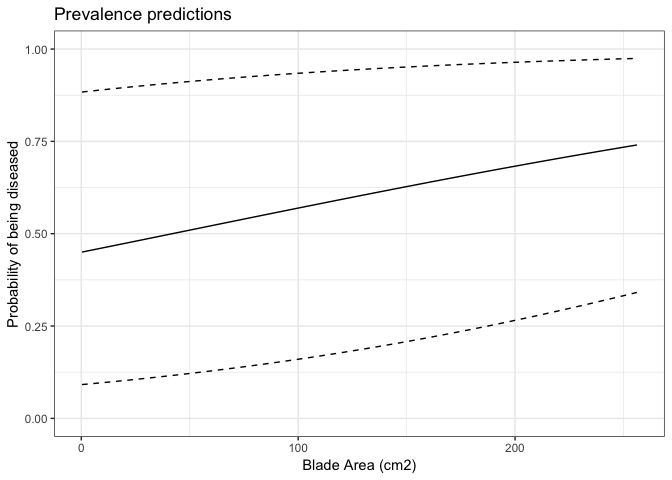
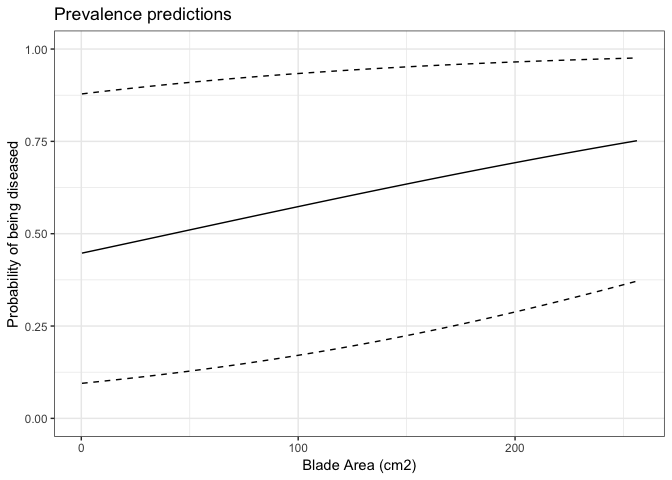
edited blade model to include region group and meadow group

diff --git a/disease_model_I.md b/disease_model_I.md
@@ -25,27 +25,41 @@ selection and validation process, for simplicity in sharing results
     ##  Family: binomial  ( logit )
     ## Formula:          
     ## Prevalence ~ sBladeArea + sDensityShoots + TidalHeight + (1 |  
-    ##     MeadowId)
+    ##     Region) + (1 | MeadowId)
     ## Data: bladeWD
     ## 
     ##      AIC      BIC   logLik deviance df.resid 
-    ##   4219.9   4251.0  -2105.0   4209.9     3697 
+    ##   4215.0   4252.3  -2101.5   4203.0     3696 
     ## 
     ## Random effects:
     ## 
     ## Conditional model:
     ##  Groups   Name        Variance Std.Dev.
-    ##  MeadowId (Intercept) 1.88     1.371   
-    ## Number of obs: 3702, groups:  MeadowId, 32
+    ##  Region   (Intercept) 0.7763   0.8811  
+    ##  MeadowId (Intercept) 1.0928   1.0453  
+    ## Number of obs: 3702, groups:  Region, 6; MeadowId, 32
     ## 
     ## Conditional model:
-    ##                 Estimate Std. Error z value Pr(>|z|)    
-    ## (Intercept)    -0.004324   0.249862  -0.017 0.986192    
-    ## sBladeArea      0.226840   0.066422   3.415 0.000638 ***
-    ## sDensityShoots -0.042782   0.060745  -0.704 0.481258    
-    ## TidalHeightU    0.150309   0.087006   1.728 0.084063 .  
+    ##                Estimate Std. Error z value Pr(>|z|)    
+    ## (Intercept)    -0.04348    0.40924  -0.106 0.915395    
+    ## sBladeArea      0.24017    0.06697   3.586 0.000336 ***
+    ## sDensityShoots -0.03695    0.06083  -0.607 0.543546    
+    ## TidalHeightU    0.15406    0.08703   1.770 0.076680 .  
     ## ---
     ## Signif. codes:  0 '***' 0.001 '**' 0.01 '*' 0.05 '.' 0.1 ' ' 1
+
+    ## # Indices of model performance
+    ## 
+    ##     AIC |     BIC | R2_conditional | R2_marginal |  ICC | RMSE | LOGLOSS | SCORE_LOG | SCORE_SPHERICAL
+    ## ------------------------------------------------------------------------------------------------------
+    ## 4215.04 | 4252.34 |           0.37 |        0.01 | 0.36 | 0.43 |    0.55 |      -Inf |               0
+
+    ## # ICC by Group
+    ## 
+    ## Group    |   ICC
+    ## ----------------
+    ## Region   | 0.150
+    ## MeadowId | 0.212
 
 The first part of the model shows that Blade Area is a significant
 predictor of disease status. Tidal Height and Shoot Density were not
@@ -99,6 +113,26 @@ between regions.
     ## RegionWA     0.35213    0.10537   3.342 0.000832 ***
     ## ---
     ## Signif. codes:  0 '***' 0.001 '**' 0.01 '*' 0.05 '.' 0.1 ' ' 1
+
+    ## # Indices of model performance
+    ## 
+    ##      AIC |      BIC | R2_conditional | R2_marginal | ICC | RMSE
+    ## ---------------------------------------------------------------
+    ## -5407.43 | -5346.66 |              1 |        0.04 |   1 | 0.13
+
+    ## Warning: get_variance ignores effects of dispersion model.
+
+    ## Warning: mu of 0.1 is too close to zero, estimate of random effect
+    ## variances may be unreliable.
+
+    ## Warning: Can't calculate model's distribution-specific variance. Results
+    ## are not reliable.
+
+    ## # ICC by Group
+    ## 
+    ## Group    |   ICC
+    ## ----------------
+    ## MeadowId | 1.000
 
 Second part of the model shows that Blade Area is signiciant but p-value
 is fairly large - esp for GLMM. Tidal Height and Shoot Density were
